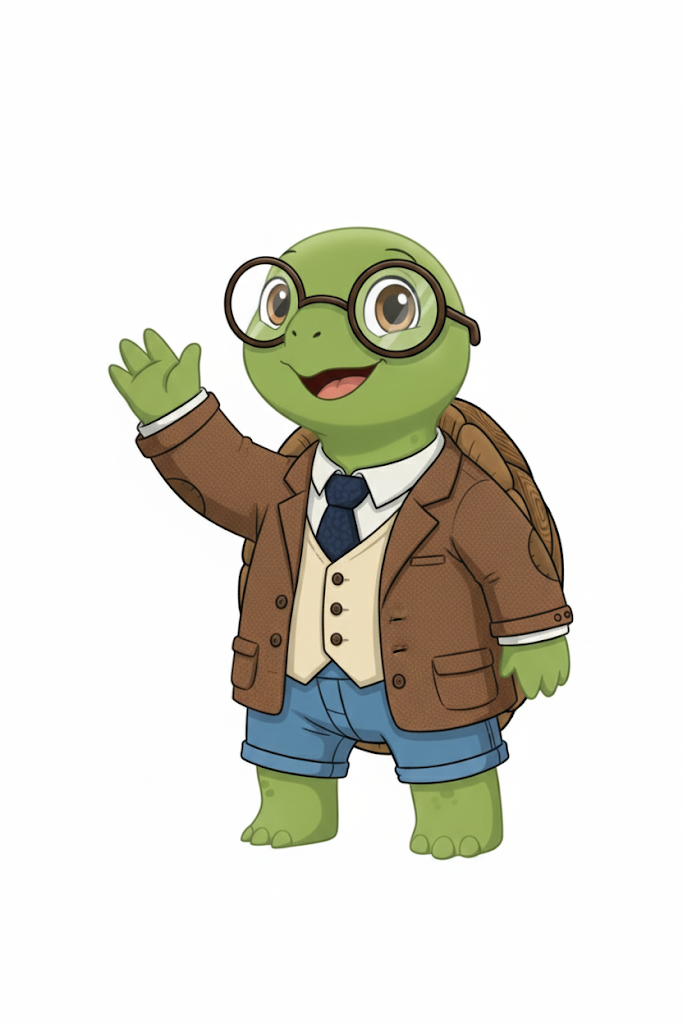
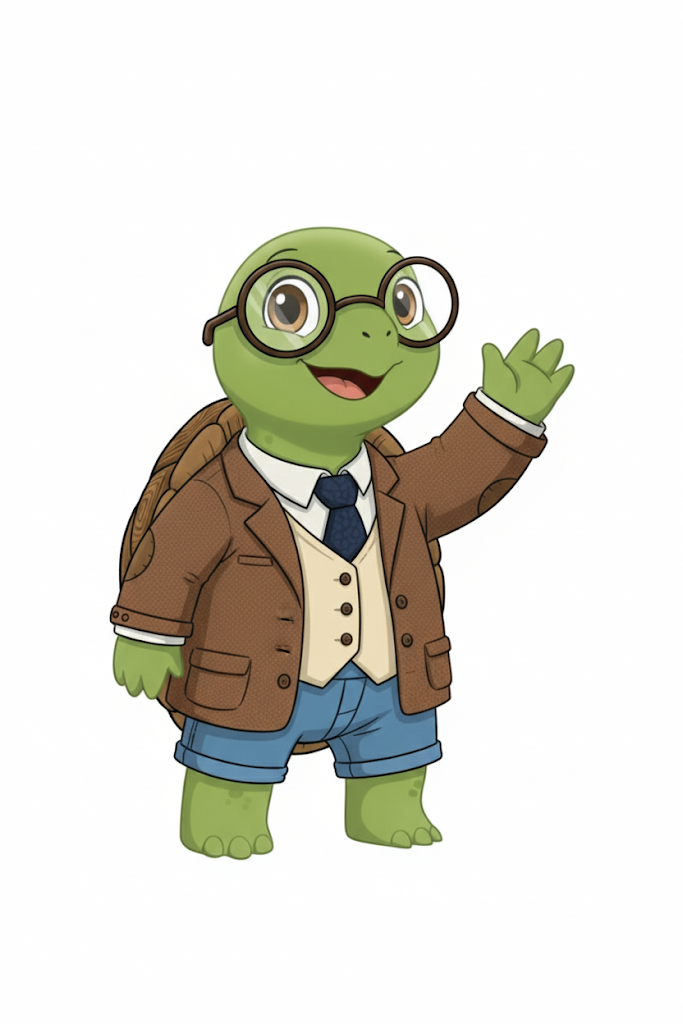
Updated Basic UI structure

Changed region(s): [[0.1537, 0.2188, 0.8609, 0.8438]]

diff --git a/PaperMind.ai/src/Dashboard.css b/PaperMind.ai/src/Dashboard.css
@@ -1,99 +1,232 @@
-/* Landing page background */
 .Landing-Page {
-    background-image: url('./assets/Background.png');
-    background-repeat: repeat;
-    background-size: auto;
-    min-width: 100vw;
-    min-height: 100vh;
-    position: relative;
-    background-color: rgba(255, 255, 255, 0.3);
-    background-blend-mode: lighten; 
-    display: flex;
-    flex-direction: column;
+  background-image: url('./assets/Background.png');
+  background-repeat: no-repeat;
+  background-size: cover;
+  min-width: 100vw;
+  min-height: 100vh;
+  position: relative;
+  background-color: rgba(255, 255, 255, 0.3);
+  background-blend-mode: lighten;
+  display: flex;
+  flex-direction: column;
+  justify-content: center;
+  align-items: center;
 }
 
-/* Custom font */
 @font-face {
-    font-family: 'Aprila';
-    src: url('./src/assets/fonts/Aprila-Regular.otf') format('opentype');
-    font-weight: normal;
-    font-style: normal;
-    font-display: swap;
+  font-family: 'Aprila';
+  src: url('./src/assets/fonts/Aprila-Regular.otf') format('opentype');
+  font-weight: normal;
+  font-style: normal;
+  font-display: swap;
 }
 
-/* Google Quicksand */
 .quicksand {
-    font-family: "Quicksand", sans-serif;
-    font-optical-sizing: auto;
-    font-weight: 400;
-    font-style: normal;
+  font-family: "Quicksand", sans-serif;
 }
 
-/* Hero container */
 .Hero {
-    margin-top: 70px; /* pushes Hero below navbar */
-    background: #f0f3f6;
-    height: 500px;
-    width: 90vw;
-    margin-left: auto;
-    margin-right: auto;
-    display: flex;
-    justify-content: center;
-    align-items: center;
-    border-radius: 16px;
-    animation: scroll-down 1s ease forwards;
-    animation-delay: 0.5s;
-    box-shadow: 0 10px 25px rgba(0,0,0,0.2);
-    overflow: hidden;
-    text-align: center;
-    padding: 20px;
+  margin: 70px auto 0;
+  background: #fff;
+  min-height: 500px;
+  width: 90vw;
+  display: grid;
+  grid-template-columns: 1fr 3fr;
+  gap: 5px;
+  align-items: center;
+  border-radius: 16px;
+  box-shadow: 0 10px 25px rgba(0,0,0,0.2);
+  padding: 5px 0;
+  overflow: hidden;
+  animation: scroll-down 1s ease forwards;
+  animation-delay: 0.5s;
 }
 
-/* Typing effect for hero title */
+.hero-text {
+  display: flex;
+  flex-direction: column;
+  justify-content: center;
+  align-items: center;
+  text-align: center;
+}
+
 .hero-title {
-    font-size: 70px;
-    font-family: 'Aprila', Arial, sans-serif;
-    color: #2f4ea5;
-    text-shadow: 2px 4px 10px rgba(0,0,0,0.15);
-
-    overflow: hidden;             
-    white-space: nowrap;           
-    border-right: 3px solid #2f4ea5; /* cursor effect */
-    width: 0;                      
-
-    /* typing + blink while typing + cursor fade out */
-    animation: typing 3s steps(30, end) forwards,
-               blink 0.75s step-end 4,
-               cursor-fade 0.5s forwards;
-    animation-delay: 1s, 1s, 4s; 
+  font-size: 100px;
+  margin: 0;
+  font-family: 'Aprila', Arial, sans-serif;
+  color: #2f4ea5;
+  text-shadow: 2px 4px 10px rgba(0,0,0,0.15);
+  overflow: hidden;
+  white-space: nowrap;
+  border-right: 3px solid #2f4ea5;
+  width: 0;
+  animation: typing 3s steps(30, end) forwards,
+             blink 0.75s step-end 4,
+             cursor-fade 0.5s forwards;
+  animation-delay: 1s, 1s, 4s;
 }
 
-/* Typing keyframes */
-@keyframes typing {
-    from { width: 0 }
-    to { width: 100% }
+.subtitle {
+  font-size: 30px;
+  margin-top: 10px;
+  font-weight: 600;
+  color: black;
 }
 
-/* Cursor blink */
-@keyframes blink {
-    from, to { border-color: transparent }
-    50% { border-color: currentColor; }
+.Mascot {
+  position: relative;
+  display: flex;
+  justify-content: center;
+  align-items: center;
 }
 
-/* Cursor fade-out */
-@keyframes cursor-fade {
-    from { border-color: currentColor; }
-    to { border-color: transparent; }
+.Mascot img {
+  width: 100%;
+  max-width: 200px;
+  max-height: 350px;
+  object-fit: contain;
+  margin: 0;
+  padding: 0;
 }
 
-/* Scroll animation for Hero container */
-@keyframes scroll-down {
-    from {
-        opacity: 0;
-        transform: translateY(-30px);
-    }
-    to {
-        opacity: 1;
-        transform: translateY(0);
-    }
+.speech {
+  position: absolute;
+  top: -1px;
+  left: 30%;
+  transform: translateX(-50%);
+  font-size: 16px;
+  font-weight: 600;
+  color: #708ed3;
+  min-height: 40px;
+  padding: 5px;
+  text-align: center;
+  white-space: nowrap;
+  border-radius: 24px;
+  background: rgba(255, 255, 255, 0.95);
+  border: 2px solid rgba(112, 142, 211, 0.5);
+  box-shadow: 0 6px 16px rgba(0, 0, 0, 0.12);
+  animation: float 2s ease-in-out infinite;
 }
+
+.container {
+  background-color: white;
+  min-height: 100px;
+  width: 90vw;
+  padding: 20px;
+  margin: 40px;
+  border-radius: 8px;
+  display: flex;
+  flex-direction: column;
+  align-items: center;
+}
+
+.footer {
+  display: flex;
+  justify-content: space-between;
+  align-items: center;
+  padding: 8px 16px;
+  background-color: #708ed3;
+  font-size: 14px;
+  margin-top: auto;
+  width: 1530px;          
+  overflow: hidden;    
+  position: relative;   /* stays at the bottom of content */
+}
+
+.footer p,
+.footer ul li a {
+  color: black;
+  text-decoration: none;
+  transition: color 0.3s;
+}
+
+.footer ul {
+  display: flex;
+  gap: 12px;
+  list-style: none;
+  margin: 0;
+  padding: 0;
+}
+
+/* Chat container styles */
+.chat-wrapper {
+  display: flex;
+  gap: 10px;
+  margin-top: 20px;
+  justify-content: center;
+  align-items: center;
+  flex-wrap: wrap;
+  width: 100%;
+}
+
+.chat-container {
+  display: flex;
+  align-items: center;
+  background-color: #cad8f6;
+  border-radius: 50px;
+  padding: 10px 15px;
+  flex: 1;
+  min-width: 250px;
+  max-width: 500px;
+  box-shadow: 0 8px 20px rgba(0,0,0,0.15);
+}
+
+.file-button {
+  display: flex;
+  justify-content: center;
+  align-items: center;
+  background-color: #6f8fd0;
+  color: white;
+  font-weight: bold;
+  width: 35px;
+  height: 35px;
+  border-radius: 50%;
+  cursor: pointer;
+  font-size: 20px;
+  margin-right: 10px; /* placed on left of input */
+  transition: background 0.2s ease;
+}
+
+.file-button:hover {
+  background-color: #5a73b0;
+}
+
+.chat-container input[type="text"] {
+  flex: 1;
+  padding: 10px 15px;
+  border: 2px solid #6f8fd0;
+  border-radius: 50px;
+  font-size: 16px;
+  color: #000;
+  background-color: white;
+  outline: none;
+  transition: transform 0.2s ease, box-shadow 0.3s ease;
+}
+
+.chat-container input[type="text"]:focus {
+  transform: scale(1.02);
+  box-shadow: 0 12px 28px rgba(0,0,0,0.3);
+}
+
+.submit-button {
+  background-color: #6f8fd0;
+  color: white;
+  border: none;
+  padding: 12px 20px;
+  border-radius: 50px;
+  font-size: 16px;
+  cursor: pointer;
+  transition: background 0.2s ease, transform 0.2s ease;
+}
+
+.submit-button:hover {
+  background-color: #5a73b0;
+  transform: translateY(-2px);
+}
+
+/* Animations */
+@keyframes typing { from { width: 0 } to { width: 100% } }
+@keyframes blink { from, to { border-color: transparent } 50% { border-color: currentColor; } }
+@keyframes cursor-fade { from { border-color: currentColor; } to { border-color: transparent; } }
+@keyframes scroll-down { from { opacity: 0; transform: translateY(-30px); } to { opacity: 1; transform: translateY(0); } }
+@keyframes float { 0%, 100% { transform: translate(-50%, 0); } 50% { transform: translate(-50%, -10px); } }

diff --git a/PaperMind.ai/src/Dashboard.jsx b/PaperMind.ai/src/Dashboard.jsx
@@ -1,13 +1,70 @@
+import { Link } from "react-router-dom";
 import "./Dashboard.css";
 import Navbar from "./Navbar.jsx"; 
+import React, { useState } from "react";
 
 function Dashboard() {
+  const [message, setMessage] = useState("");
+  const [file, setFile] = useState(null);
+
+  const handleSubmit = (e) => {
+    e.preventDefault();
+    // Redirect after submitting
+    window.location.href = "/login";
+  };
+
   return (
     <div className="Landing-Page">
       <Navbar />
-      <section className="Hero quicksand">
-        <h1 className="hero-title">Welcome to PaperMind.ai</h1>
-      </section>
+      <div className="Hero quicksand">
+        <div className="Mascot">
+          <img 
+            src="/src/assets/turtle-4.png" 
+            alt="Papermind AI Mascot" />
+          <p className="speech">Hey! I'm Tory — your smart guide to mastering any document!</p>
+        </div>
+        <div className="hero-text">
+          <h1 className="hero-title">PaperMind.ai</h1>
+          <p className="subtitle">From confusion to comprehension</p>
+        </div>
+      </div>
+
+      <div className="container">
+        <p>
+          Discover the future of productivity with <strong>PaperMind.ai</strong> – your intelligent assistant that turns ideas into actionable insights. Save time, stay organized, and make smarter decisions with cutting-edge AI designed to understand your needs. Experience innovation that works as hard as you do!
+        </p>
+
+        {/* Chat Container below the information text */}
+        <div className="chat-wrapper">
+          <div className="chat-container">
+            <input
+              type="text"
+              placeholder="Type your message..."
+              value={message}
+              onChange={(e) => setMessage(e.target.value)}
+            />
+            <label htmlFor="file-upload" className="file-button">+</label>
+            <input
+              id="file-upload"
+              type="file"
+              style={{ display: "none" }}
+              onChange={(e) => setFile(e.target.files[0])}
+            />
+          </div>
+          <button className="submit-button" onClick={handleSubmit}>
+            Submit
+          </button>
+        </div>
+      </div>
+
+      <footer className="footer">
+        <p>© 2025 PaperMind.ai</p>
+        <ul>
+          <li><Link to="/">Home</Link></li>
+          <li><Link to="/contacts">FAQs</Link></li>
+          <li><Link to="/about">About</Link></li>
+        </ul>
+      </footer>
     </div>
   );
 }
